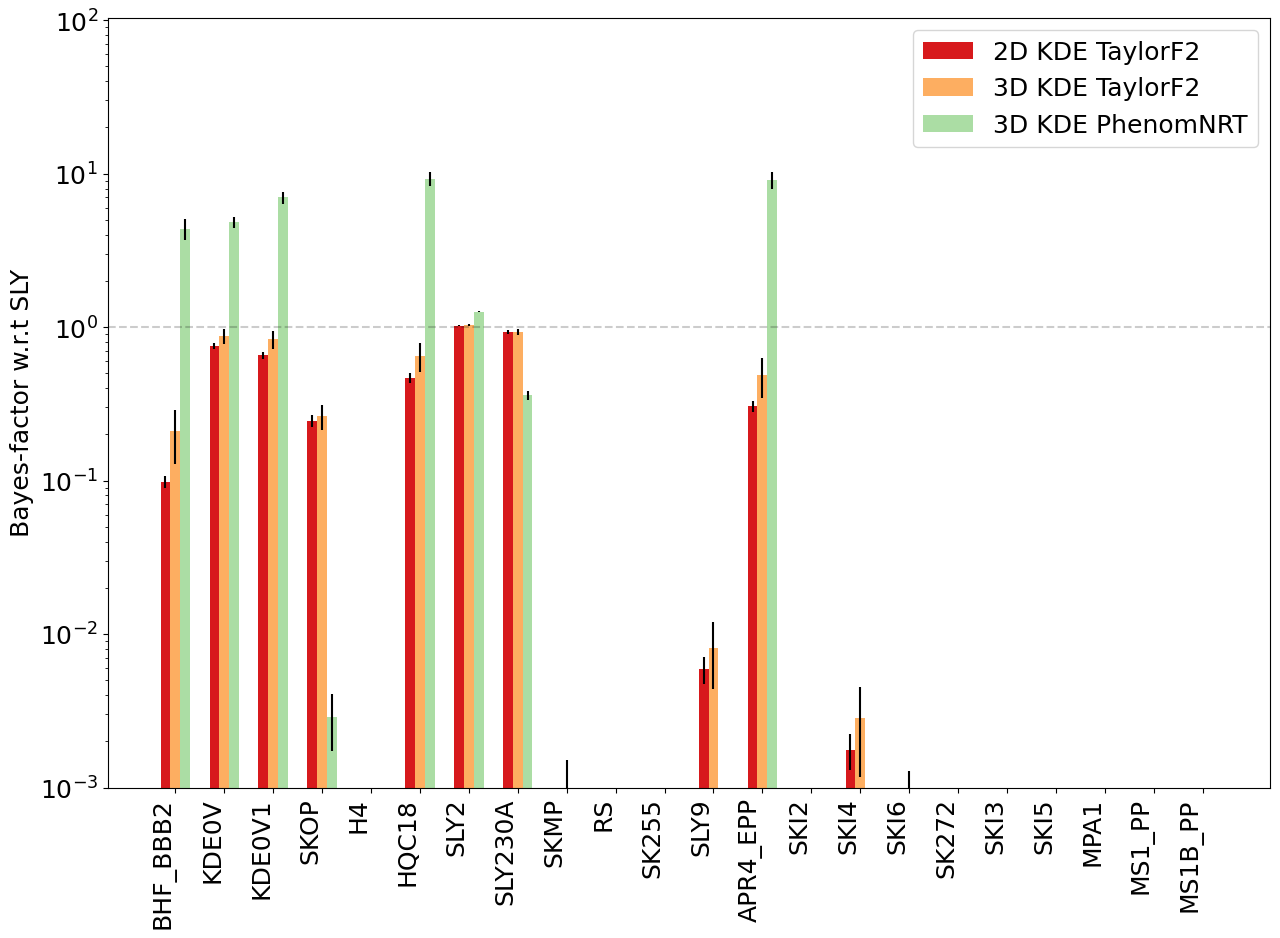
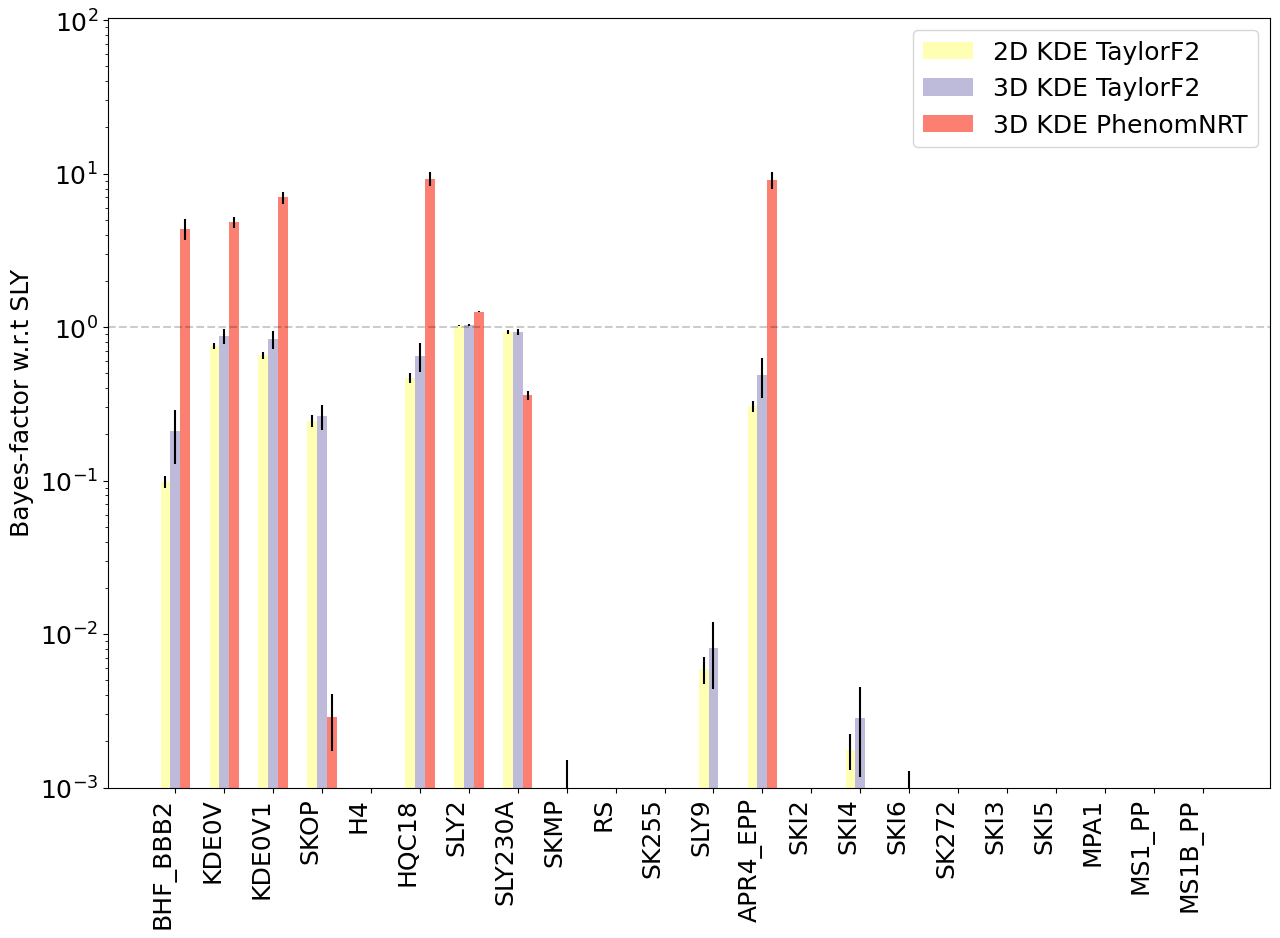
Redo of BNS simulation join BFs and constraint.

diff --git a/year3/lastStretch/simulBFs.py b/year3/lastStretch/simulBFs.py
@@ -19,8 +19,7 @@ def singleEventBFs(Trials=1000):
 #                  "241_1.31_1.28", "220_1.36_1.24", "282_1.35_1.32", "149_1.35_1.23", "237_1.36_1.26", 
 #                  "138_1.5_1.21", "235_1.4_1.3", "219_1.3_1.28", "260_1.48_1.33", "164_1.34_1.19"]
 
-    #injections = ['103_8.82_1.23','116_9.83_1.15','131_2.2_1.53','177_9.59_1.97','196_3.34_2.13',
-    injections = ['177_9.59_1.97',
+    injections = ['103_8.82_1.23','116_9.83_1.15','131_2.2_1.53','177_9.59_1.97','196_3.34_2.13',
                   '227_4.19_2.05','236_7.03_1.96','261_4.16_2.08','267_4.47_1.66','321_3.11_2.08',
                   '327_3.11_1.22','380_7.95_2.1','386_2.64_1.81','432_3.51_1.94','452_3.55_1.47',
                   '455_2.33_1.97','467_5.58_2.06','756_7.0_1.58']
@@ -53,7 +52,7 @@ def singleEventBFs(Trials=1000):
 
         #methods = [modsel_uLTs, modsel_uLs,modsel_phenomPhenom]
         methods = [modsel_nsbhPhenom]
-        eosList = ["BHF_BBB2","KDE0V","KDE0V1","SKOP","H4","HQC18","SLY2","SLY230A","SKMP","RS","SK255","SLY9","APR4_EPP","SKI2","SKI4","SKI6","SK272","SKI3","SKI5","MPA1","MS1_PP","MS1B_PP"]
+        eosList = ["SKOP","H4","HQC18","SLY2","SLY230A","SKMP","RS","SK255","SLY9","APR4_EPP","SKI2","SKI4","SKI6","SK272","SKI3","SKI5","MPA1","MS1_PP","MS1B_PP"]
         methods_BFs = []
         methods_trials = []
         for method in methods:
@@ -111,7 +110,7 @@ def singleEventPlots():
 
         #labels = ["2D KDE TaylorF2", "3D KDE TaylorF2", "3D KDE PhenomNRT"]
         labels = ["3D KDE PhenomPv2"]
-        eosList = ["BHF_BBB2","KDE0V","KDE0V1","SKOP","H4","HQC18","SLY2","SLY230A","SKMP","RS","SK255","SLY9","APR4_EPP","SKI2","SKI4","SKI6","SK272","SKI3","SKI5","MPA1","MS1_PP","MS1B_PP"]
+        eosList = ["SKOP","H4","HQC18","SLY2","SLY230A","SKMP","RS","SK255","SLY9","APR4_EPP","SKI2","SKI4","SKI6","SK272","SKI3","SKI5","MPA1","MS1_PP","MS1B_PP"]
         colors = ["#d7191c"]
         x_axis = np.arange(len(eosList))
         #spacing = [-.20,0.,.20]
@@ -168,7 +167,7 @@ def multipleEventBFs(Trials=1000):
     labels = ["3D KDE PhenomPv2"]
     #stacks = [stack_uLTs, stack_uLs, stack_phenomPhenom]
     stacks = [stack_nsbhPhenom]
-    eosList = ["BHF_BBB2","KDE0V","KDE0V1","SKOP","H4","HQC18","SLY2","SLY230A","SKMP","RS","SK255","SLY9","APR4_EPP","SKI2","SKI4","SKI6","SK272","SKI3","SKI5","MPA1","MS1_PP","MS1B_PP"]
+    eosList = ["SKOP","H4","HQC18","SLY2","SLY230A","SKMP","RS","SK255","SLY9","APR4_EPP","SKI2","SKI4","SKI6","SK272","SKI3","SKI5","MPA1","MS1_PP","MS1B_PP"]
     stacks_BFs = []
     stacks_uncerts = []
     for stack in stacks:
@@ -208,18 +207,19 @@ def multipleEventBFs(Trials=1000):
 
 def multipleEventPlots():
      
-    #File = "data/BNS/BFs/16simulations_2D_3D_BFs_1000trial.json"
-    File = "data/NSBH/BFs/18simulations_BFs_100trial.json"
+    File = "data/BNS/BFs/16simulations_2D_3D_BFs_1000trial.json"
+    #File = "data/NSBH/BFs/18simulations_BFs_100trial.json"
     with open(File,"r") as f:
         data = json.load(f)
  
-    #labels = ["2D KDE TaylorF2", "3D KDE TaylorF2", "3D KDE PhenomNRT"]
-    labels = ["3D KDE PhenomPv2"]
-    eosList = ["BHF_BBB2","KDE0V","KDE0V1","SKOP","H4","HQC18","SLY2","SLY230A","SKMP","RS","SK255","SLY9","APR4_EPP","SKI2","SKI4","SKI6","SK272","SKI3","SKI5","MPA1","MS1_PP","MS1B_PP"]
-    colors = ["#d7191c"]
+    labels = ["2D KDE TaylorF2", "3D KDE TaylorF2", "3D KDE PhenomNRT"]
+    #labels = ["3D KDE PhenomPv2"]
+    eosList = ["SKOP","H4","HQC18","SLY2","SLY230A","SKMP","RS","SK255","SLY9","APR4_EPP","SKI2","SKI4","SKI6","SK272","SKI3","SKI5","MPA1","MS1_PP","MS1B_PP"]
+    colors = ['#ffffb3','#bebada','#fb8072']
+    #colors = ["#d7191c"]
     x_axis = np.arange(len(eosList))
-    #spacing = [-.20,0.,.20]
-    spacing = [.0]
+    spacing = [-.20,0.,.20]
+    #spacing = [.0]
 
     plt.clf()
     plt.rcParams.update({"font.size":18})
@@ -245,6 +245,6 @@ def multipleEventPlots():
     plt.axhline(1.0,color="k",linestyle="--",alpha=0.2)
     plt.ylabel("Bayes-factor w.r.t SLY")
     plt.legend()
-    #plt.savefig("plots/BNS/BFs/16simulations_2D_3D_BFs_1000trial.png",bbox_inches="tight")
-    plt.savefig("plots/NSBH/BFs/18simulations_BFs_100trial.png",bbox_inches="tight")
+    plt.savefig("plots/BNS/BFs/16simulations_2D_3D_BFs_1000trial.png",bbox_inches="tight")
+    #plt.savefig("plots/NSBH/BFs/18simulations_BFs_100trial.png",bbox_inches="tight")
 

diff --git a/year3/lastStretch/simulConstraint.py b/year3/lastStretch/simulConstraint.py
@@ -19,7 +19,7 @@ def calcConstraint1():
 #    uLTs_Dir = "../../year2/bilby_runs/simulations/outdir/1st_Phenom_Taylor/uniformP_LTs/phenom-injections/TaylorF2"
 #    uLs_Dir = "../../year2/bilby_runs/simulations/outdir/1st_Phenom_Taylor/uniformP_Ls/IMRPhenomPv2_NRTidal/APR4_EPP"
 #    phenomPhenom_Dir = "../../year2/bilby_runs/simulations/outdir/1st_Phenom_Phenom/IMRPhenomPv2_NRTidal/APR4_EPP"
-    nsbhPhenom_Dir = '/home/michael/projects/eos/GWXtreme_Tasks/year3/lastStretch/files/NSBH_IMRPhenomPv2_NRTidal/APR4_EPP'
+    nsbhPhenom_Dir = '/home/michael/projects/eos/GWXtreme_Tasks/year3/lastStretch/files/NSBH/IMRPhenomPv2_NRTidal/APR4_EPP'
 
 #    uLTs_Files = glob.glob("{}/*/*simplified.json".format(uLTs_Dir)) + glob.glob("{}/troublesome/*/*simplified.json".format(uLTs_Dir))
 #    uLs_Files = glob.glob("{}/*/*simplified.json".format(uLs_Dir)) + glob.glob("{}/troublesome/*/*simplified.json".format(uLs_Dir))
@@ -114,12 +114,12 @@ def calcConstraint2(burn_in_frac=0.5,thinning=None):
 def plotConstraint():
     # Adopted from Anarya's GWXtreme 3d kde prod branch's plotting logic.
 
-    #labels = ["2D-KDE-TaylorF2", "3D-KDE-TaylorF2", "3D-KDE-PhenomNRT"]
-    labels = ["3D-KDE-PhenomNRT"]
-    #Labels = ["2D KDE TaylorF2", "3D KDE TaylorF2", "3D KDE PhenomNRT"]
-    Labels = ["3D KDE PhenomNRT"]
-    #Colors = ["#d7191c","#fdae61","#abdda4"]
-    Colors = ["#fdae61"]
+    labels = ["2D-KDE-TaylorF2", "3D-KDE-TaylorF2", "3D-KDE-PhenomNRT"]
+    #labels = ["3D-KDE-PhenomNRT"]
+    Labels = ["2D KDE TaylorF2", "3D KDE TaylorF2", "3D KDE PhenomNRT"]
+    #Labels = ["3D KDE PhenomNRT"]
+    Colors = ['#ffffb3','#bebada','#fb8072']
+    #Colors = ["#fdae61"]
 
     plt.figure(figsize=(12,12))
     plt.rc('font', size=20)
@@ -128,16 +128,18 @@ def plotConstraint():
     plt.rc('ytick', direction='out', color='black')
     plt.rc('lines', linewidth=2)
 
-    for label, Label, Color in zip(labels,Labels,Colors): # increment over each plot file
+    Hatches = ["","/",""]
+
+    for label, Label, Color, Hatch in zip(labels,Labels,Colors,Hatches): # increment over each plot file
 
         # Load the samples
-        #filename='data/BNS/constraints/{}_16simulationsInference.txt'.format(label)
-        filename='data/NSBH/constraints/{}_18simulationsInference_1000samp.txt'.format(label)
+        filename='data/BNS/constraints/{}_16simulationsInference.txt'.format(label)
+        #filename='data/NSBH/constraints/{}_18simulationsInference_1000samp.txt'.format(label)
         rho, lower_bound, median, upper_bound = np.loadtxt(filename).T
 
         #plt.plot(lower_bound, rho, label=Label, color=Color)
         #plt.plot(upper_bound, rho, color=Color)
-        plt.fill_between(np.log10(rho), lower_bound, upper_bound, color=Color, alpha=0.45, label=Label, zorder=1.)
+        plt.fill_between(np.log10(rho), lower_bound, upper_bound, color=Color, alpha=0.45, label=Label, zorder=1., hatch=Hatch)
 
     #EoSs = ["APR4_EPP","H4","SLY","MS1_PP"]
     EoSs = ["APR4_EPP"]
@@ -149,6 +151,6 @@ def plotConstraint():
     plt.xlabel(r'$\log10{\frac{\rho}{g cm^-3}}$',fontsize=20)
     plt.ylabel(r'$log10(\frac{p}{dyne cm^{-2}})$',fontsize=20)
     plt.legend()
-    #plt.savefig("plots/BNS/constraints/16simulations_constraint.png", bbox_inches='tight')
-    plt.savefig("plots/NSBH/constraints/18simulations_1000samp_constraint.png", bbox_inches='tight')
+    plt.savefig("plots/BNS/constraints/16simulations_constraint.png", bbox_inches='tight')
+    #plt.savefig("plots/NSBH/constraints/18simulations_1000samp_constraint.png", bbox_inches='tight')
 

diff --git a/year3/lastStretch/shortenJson.py b/year3/lastStretch/shortenJson.py
@@ -13,8 +13,8 @@ def simplifySimulation():
 #    uLTs_Dir = "../../year2/bilby_runs/simulations/outdir/1st_Phenom_Taylor/uniformP_LTs/phenom-injections/TaylorF2"
 #    uLs_Dir = "../../year2/bilby_runs/simulations/outdir/1st_Phenom_Taylor/uniformP_Ls/IMRPhenomPv2_NRTidal/APR4_EPP"
 #    phenomPhenom_Dir = "../../year2/bilby_runs/simulations/outdir/1st_Phenom_Phenom/IMRPhenomPv2_NRTidal/APR4_EPP"
-#    nsbhPhenom_Dir = '/home/michael/projects/eos/GWXtreme_Tasks/year3/lastStretch/files/NSBH_IMRPhenomPv2_NRTidal/APR4_EPP'
-    nsbhPhenom_Dir = '/home/michael/projects/eos/GWXtreme_Tasks/year3/lastStretch/files/NSBH_IMRPhenomNSBH/APR4_EPP'
+#    nsbhPhenom_Dir = '/home/michael/projects/eos/GWXtreme_Tasks/year3/lastStretch/files/NSBH/IMRPhenomPv2_NRTidal/APR4_EPP'
+    nsbhPhenom_Dir = '/home/michael/projects/eos/GWXtreme_Tasks/year3/lastStretch/files/NSBH/IMRPhenomNSBH/APR4_EPP'
 
 #    priors = [uLTs_Dir,uLs_Dir,phenomPhenom_Dir]
     priors = [nsbhPhenom_Dir]
@@ -54,10 +54,18 @@ def simplifySimulation():
                     data = json.load(f)['posterior']['content']
 
             # This second try except is for when the file supplied has no m1 and m2; converter is then used
-            try: m1, m2, q, mc, lambda_A, lambda_B = data['m1_source'],data['m2_source'],data['mass_ratio'],data['chirp_mass'],data[label_a],data[label_b]
+            try: m1, m2, q, mc, lambda_A, lambda_B = data['m1_source'],data['m2_source'],data['mass_ratio_source'],data['chirp_mass_source'],data[label_a],data[label_b]
             except KeyError: 
-                q, mc, lambda_A, lambda_B = data['mass_ratio'],data['chirp_mass'],data[label_a],data[label_b]
-                m1, m2 = MassesInversion(q,mc).solve_system()
+                try: m1, m2, q, mc, lambda_A, lambda_B = data['mass_1_source'],data['mass_2_source'],data['mass_ratio_source'],data['chirp_mass_source'],data[label_a],data[label_b]
+                except KeyError:
+                    try: 
+                        m1, m2, lambda_A, lambda_B = np.array(data['mass_1_source']),np.array(data['mass_2_source']),data[label_a],data[label_b]
+                        q = m2/m1
+                        mc=(m1*m2)**(3./5.)/(m1+m2)**(1./5.)
+                        m1, m2, q, mc = m1.tolist(), m2.tolist(), q.tolist(), mc.tolist()
+                    except KeyError:
+                        q, mc, lambda_A, lambda_B = data['mass_ratio_source'],data['chirp_mass_source'],data[label_a],data[label_b]
+                        m1, m2 = MassesInversion(q,mc).solve_system()
 
             if label_a == "lambda_tilde":
                 label_aa = "lambdat"

diff --git a/year3/lastStretch/eventBFs.py b/year3/lastStretch/eventBFs.py
@@ -28,7 +28,7 @@ def singleEventBFs(Trials=1000):
 
     labels = ["2D KDE TaylorF2", "3D KDE TaylorF2", "3D KDE PhenomNRT", "TaylorF2 LALInference_Nest"]
     methods = [modsel_uLTs, modsel_uLs, modsel_phenom_uLs]
-    eosList = ["BHF_BBB2","KDE0V","KDE0V1","SKOP","H4","HQC18","SLY2","SLY230A","SKMP","RS","SK255","SLY9","APR4_EPP","SKI2","SKI4","SKI6","SK272","SKI3","SKI5","MPA1","MS1_PP","MS1B_PP"]
+    eosList = ["SKOP","H4","HQC18","SLY2","SLY230A","SKMP","RS","SK255","SLY9","APR4_EPP","SKI2","SKI4","SKI6","SK272","SKI3","SKI5","MPA1","MS1_PP","MS1B_PP"]
 
     #with open("/home/michael/projects/eos/GWXtreme_Tasks/year2/bilby_runs/simulations/outdir/nested_sampling_results.json","r") as f:
     #with open("files/TaylorF2_eos_prior_narrow_results.json","r") as f:
@@ -89,7 +89,7 @@ def singleEventPlots():
     #labels = ["2D KDE TaylorF2", "3D KDE TaylorF2", "3D KDE PhenomNRT"]
     #labels = ["2D KDE TaylorF2", "3D KDE TaylorF2", "TaylorF2 LALInference_Nest"]
     labels = ["3D KDE PhenomNRT", "IMRPhenom LALInference_Nest"]
-    eosList = ["BHF_BBB2","KDE0V","KDE0V1","SKOP","H4","HQC18","SLY2","SLY230A","SKMP","RS","SK255","SLY9","APR4_EPP","SKI2","SKI4","SKI6","SK272","SKI3","SKI5","MPA1","MS1_PP","MS1B_PP"]
+    eosList = ["SKOP","H4","HQC18","SLY2","SLY230A","SKMP","RS","SK255","SLY9","APR4_EPP","SKI2","SKI4","SKI6","SK272","SKI3","SKI5","MPA1","MS1_PP","MS1B_PP"]
     #colors = ['#ffffb3','#bebada','#fb8072']
     #colors = ['#66c2a5','#fc8d62','#e78ac3']
     colors = ['#beaed4','#fdc086']
